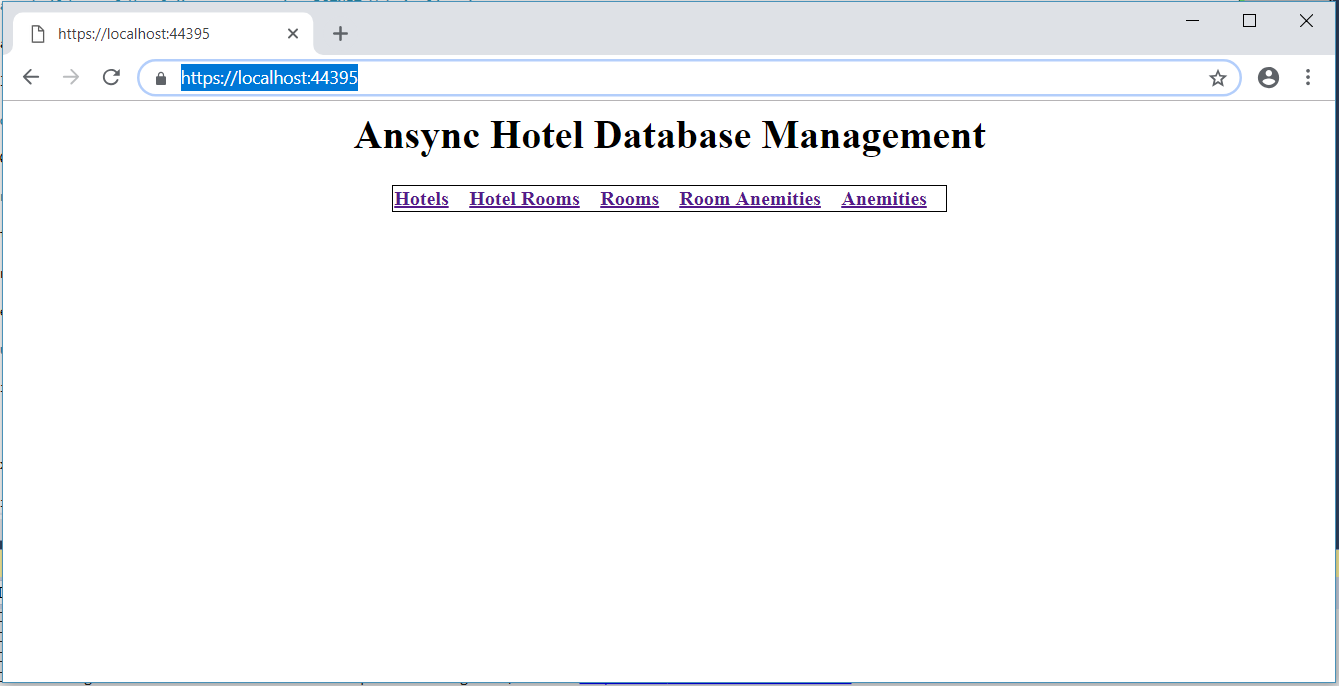
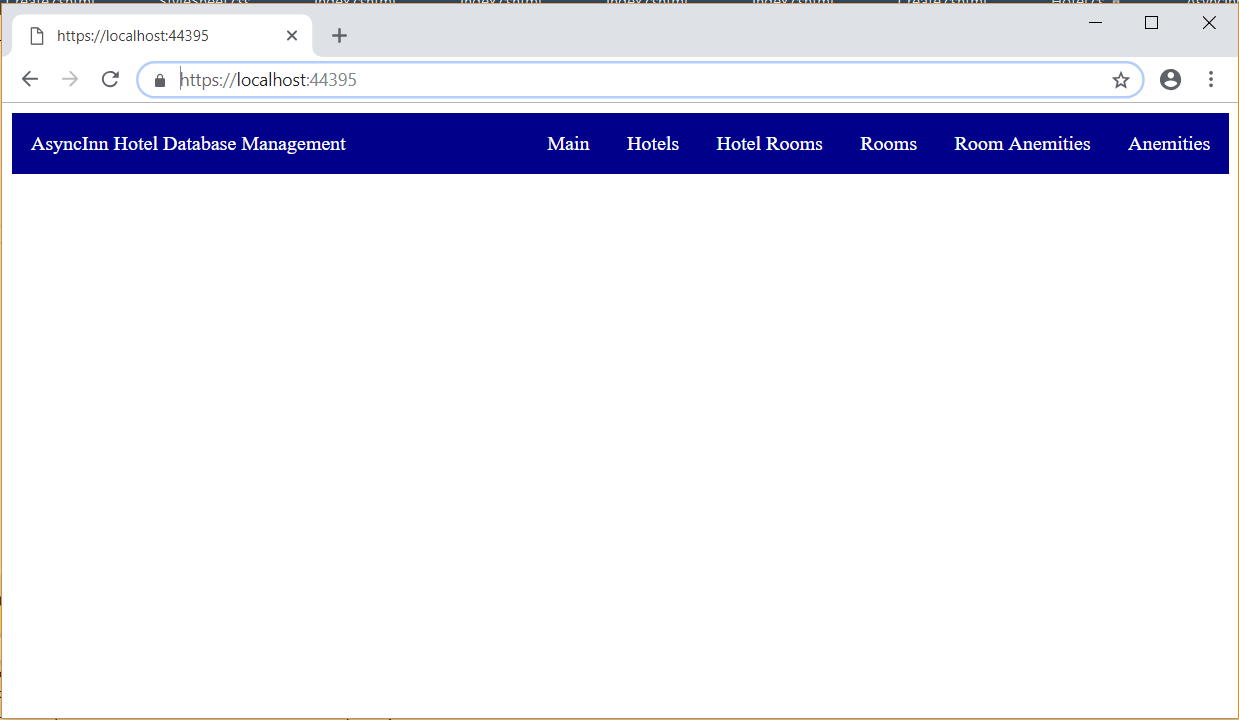
update readme

Changed region(s): [[0.0, 0.0, 1.0, 1.0], [0.276, 0.2755, 0.7054, 0.3061]]

diff --git a/AsyncInn/wwwroot/StyleSheet.css b/AsyncInn/wwwroot/StyleSheet.css
@@ -10,12 +10,12 @@ tr {
   border: 1px solid black;
 }
 table th td {
-  padding: 5px;
+  padding: 25px;
   text-align: left;
 }
 
 th {
-  padding-right: 15px;
+  padding-right: 25px;
 }
 
 ul {

diff --git a/AsyncInn/Models/Room.cs b/AsyncInn/Models/Room.cs
@@ -10,7 +10,11 @@ namespace AsyncInn.Models
   {
     [Key]
     public int ID { get; set; }
+    [Required]
+    [Display(Name = "Room Name")]
     public string Name { get; set; }
+    [Required]
+    [EnumDataType(typeof(Layout))]
     public Layout Layout { get; set; }
     public ICollection<RoomAmenity> RoomAmenities { get; set; }
     public ICollection<HotelRoom> HotelRooms { get; set; }
@@ -19,7 +23,9 @@ namespace AsyncInn.Models
   public enum Layout
   {
     Studio,
+    [Display(Name = "One Bedroom")]
     OneBedroom,
+    [Display(Name = "Two Name")]
     TwoBedroom
   }
 }

diff --git a/AsyncInn/Models/HotelRoom.cs b/AsyncInn/Models/HotelRoom.cs
@@ -8,10 +8,18 @@ namespace AsyncInn.Models
 {
   public class HotelRoom
   {
+    [Display(Name = "Hotel")]
     public int HotelID { get; set; }
+    [Required]
+    [Display(Name = "Room Number")]
     public int RoomNumber { get; set; }
+    [Display(Name = "Room")]
     public int RoomID { get; set; }
+    [Required]
+    [Display(Name = "Price")]
     public decimal Rate { get; set; }
+    [Required]
+    [Display(Name = "Pet Friendly")]
     public bool PetFriendly { get; set; }
 
     public Room Room { get; set; }

diff --git a/AsyncInn/Models/RoomAmenity.cs b/AsyncInn/Models/RoomAmenity.cs
@@ -1,5 +1,6 @@
 using System;
 using System.Collections.Generic;
+using System.ComponentModel.DataAnnotations;
 using System.Linq;
 using System.Threading.Tasks;
 
@@ -7,9 +8,10 @@ namespace AsyncInn.Models
 {
   public class RoomAmenity
   {
+    [Display(Name = "Amenity")]
     public int AmenityID { get; set; }
+    [Display(Name = "Room")]
     public int RoomID { get; set; }
-
     public Amenity Amenity { get; set; }
     public Room Room { get; set; }
   }

diff --git a/AsyncInn/Models/Hotel.cs b/AsyncInn/Models/Hotel.cs
@@ -10,8 +10,14 @@ namespace AsyncInn.Models
   {
     [Key]
     public int ID { get; set; }
+    [Required]
+    [Display(Name = "Hotel Name")]
     public string Name { get; set; }
+    [Required]
+    [Display(Name = "Address")]
     public string Address { get; set; }
+    [Required]
+    [Display(Name = "Phone Number")]
     public string Phone { get; set; }
 
     public ICollection<HotelRoom> HotelRooms { get; set; }

diff --git a/AsyncInn/Models/Amenity.cs b/AsyncInn/Models/Amenity.cs
@@ -10,6 +10,8 @@ namespace AsyncInn.Models
   {
     [Key]
     public int ID { get; set; }
+    [Required]
+    [Display(Name = "Amenity")]
     public string Name { get; set; }
 
     public ICollection<RoomAmenity> RoomAmenities { get; set; }

diff --git a/README.md b/README.md
@@ -4,11 +4,14 @@
 
 This is a basic C# Web Application specifically written to create and manage a database structure of a Hotel.
 
+V0.9 creates front end interfacing allowing users to manipulate the database via browser. 
+
 This application uses DOTNET Framework to generate the webpages.
 
 ## Version
 
 V0.8 - 10/25/2018 Buildout of Database
+V0.9 - 10/27/2018 Added Navigation. Improved Front-End
 
 ## Requirements
 
@@ -28,6 +31,8 @@ Run IISExpress to host the webpages locally. The Web Browser should automaticall
 
 The Landing Page should have a table of the inititally crafted databases. Select the appropriate link to go to each data page.
 
+Each Page gives the user to create new data or edit existing data where appropriate.
+
 ## Database Structure
 
 There are Five Separate Data Tables located within the database. The Schema is displayed below:
@@ -40,5 +45,7 @@ N/A
 
 ## Result
 
+V0.9
 ![Console](Capture.PNG?raw=true "Output")
 ![Console](Capture2.PNG?raw=true "Output")
+![Console](Capture3.PNG?raw=true "Output")
